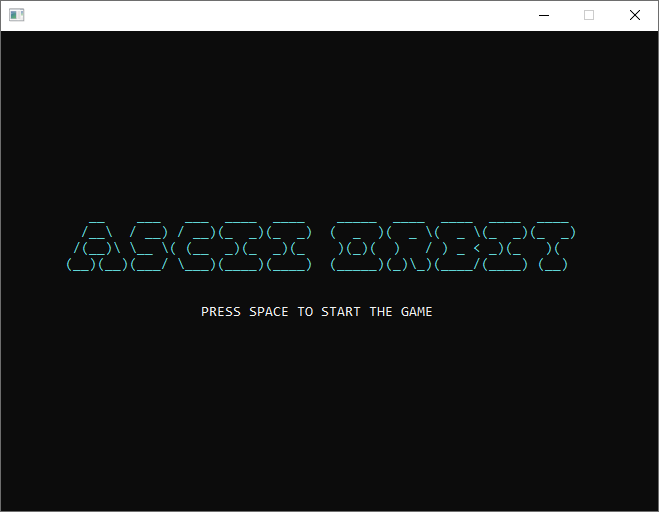
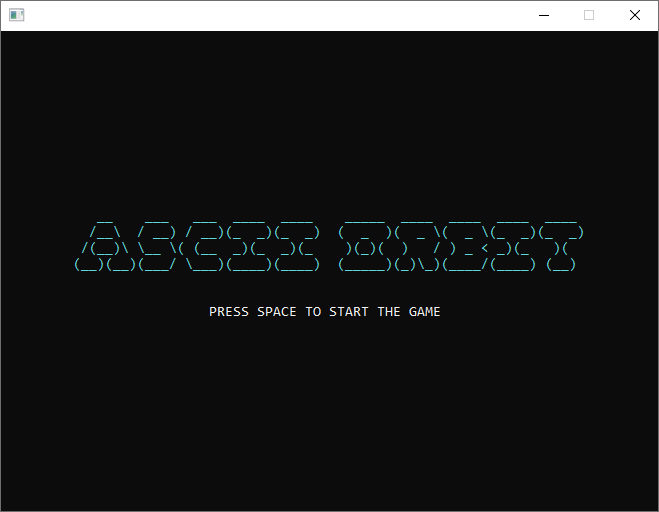
Version 1.0.0

diff --git a/Program.cs b/Program.cs
@@ -150,11 +150,11 @@ namespace ASCII_Orbit
 
             foreach (string line in titleLines)
             {
-                Console.SetCursorPosition((screenWidth - line.Length) / 2, startY++);
+                Console.SetCursorPosition(((screenWidth - line.Length) / 2) + 1, startY++);
                 Console.WriteLine(line);
             }
             Console.ResetColor();
-            BlinkInstructions(instructions, screenWidth, instructionsY);
+            BlinkInstructions(instructions, screenWidth + 1, instructionsY);
             Console.Clear();
         }
 
